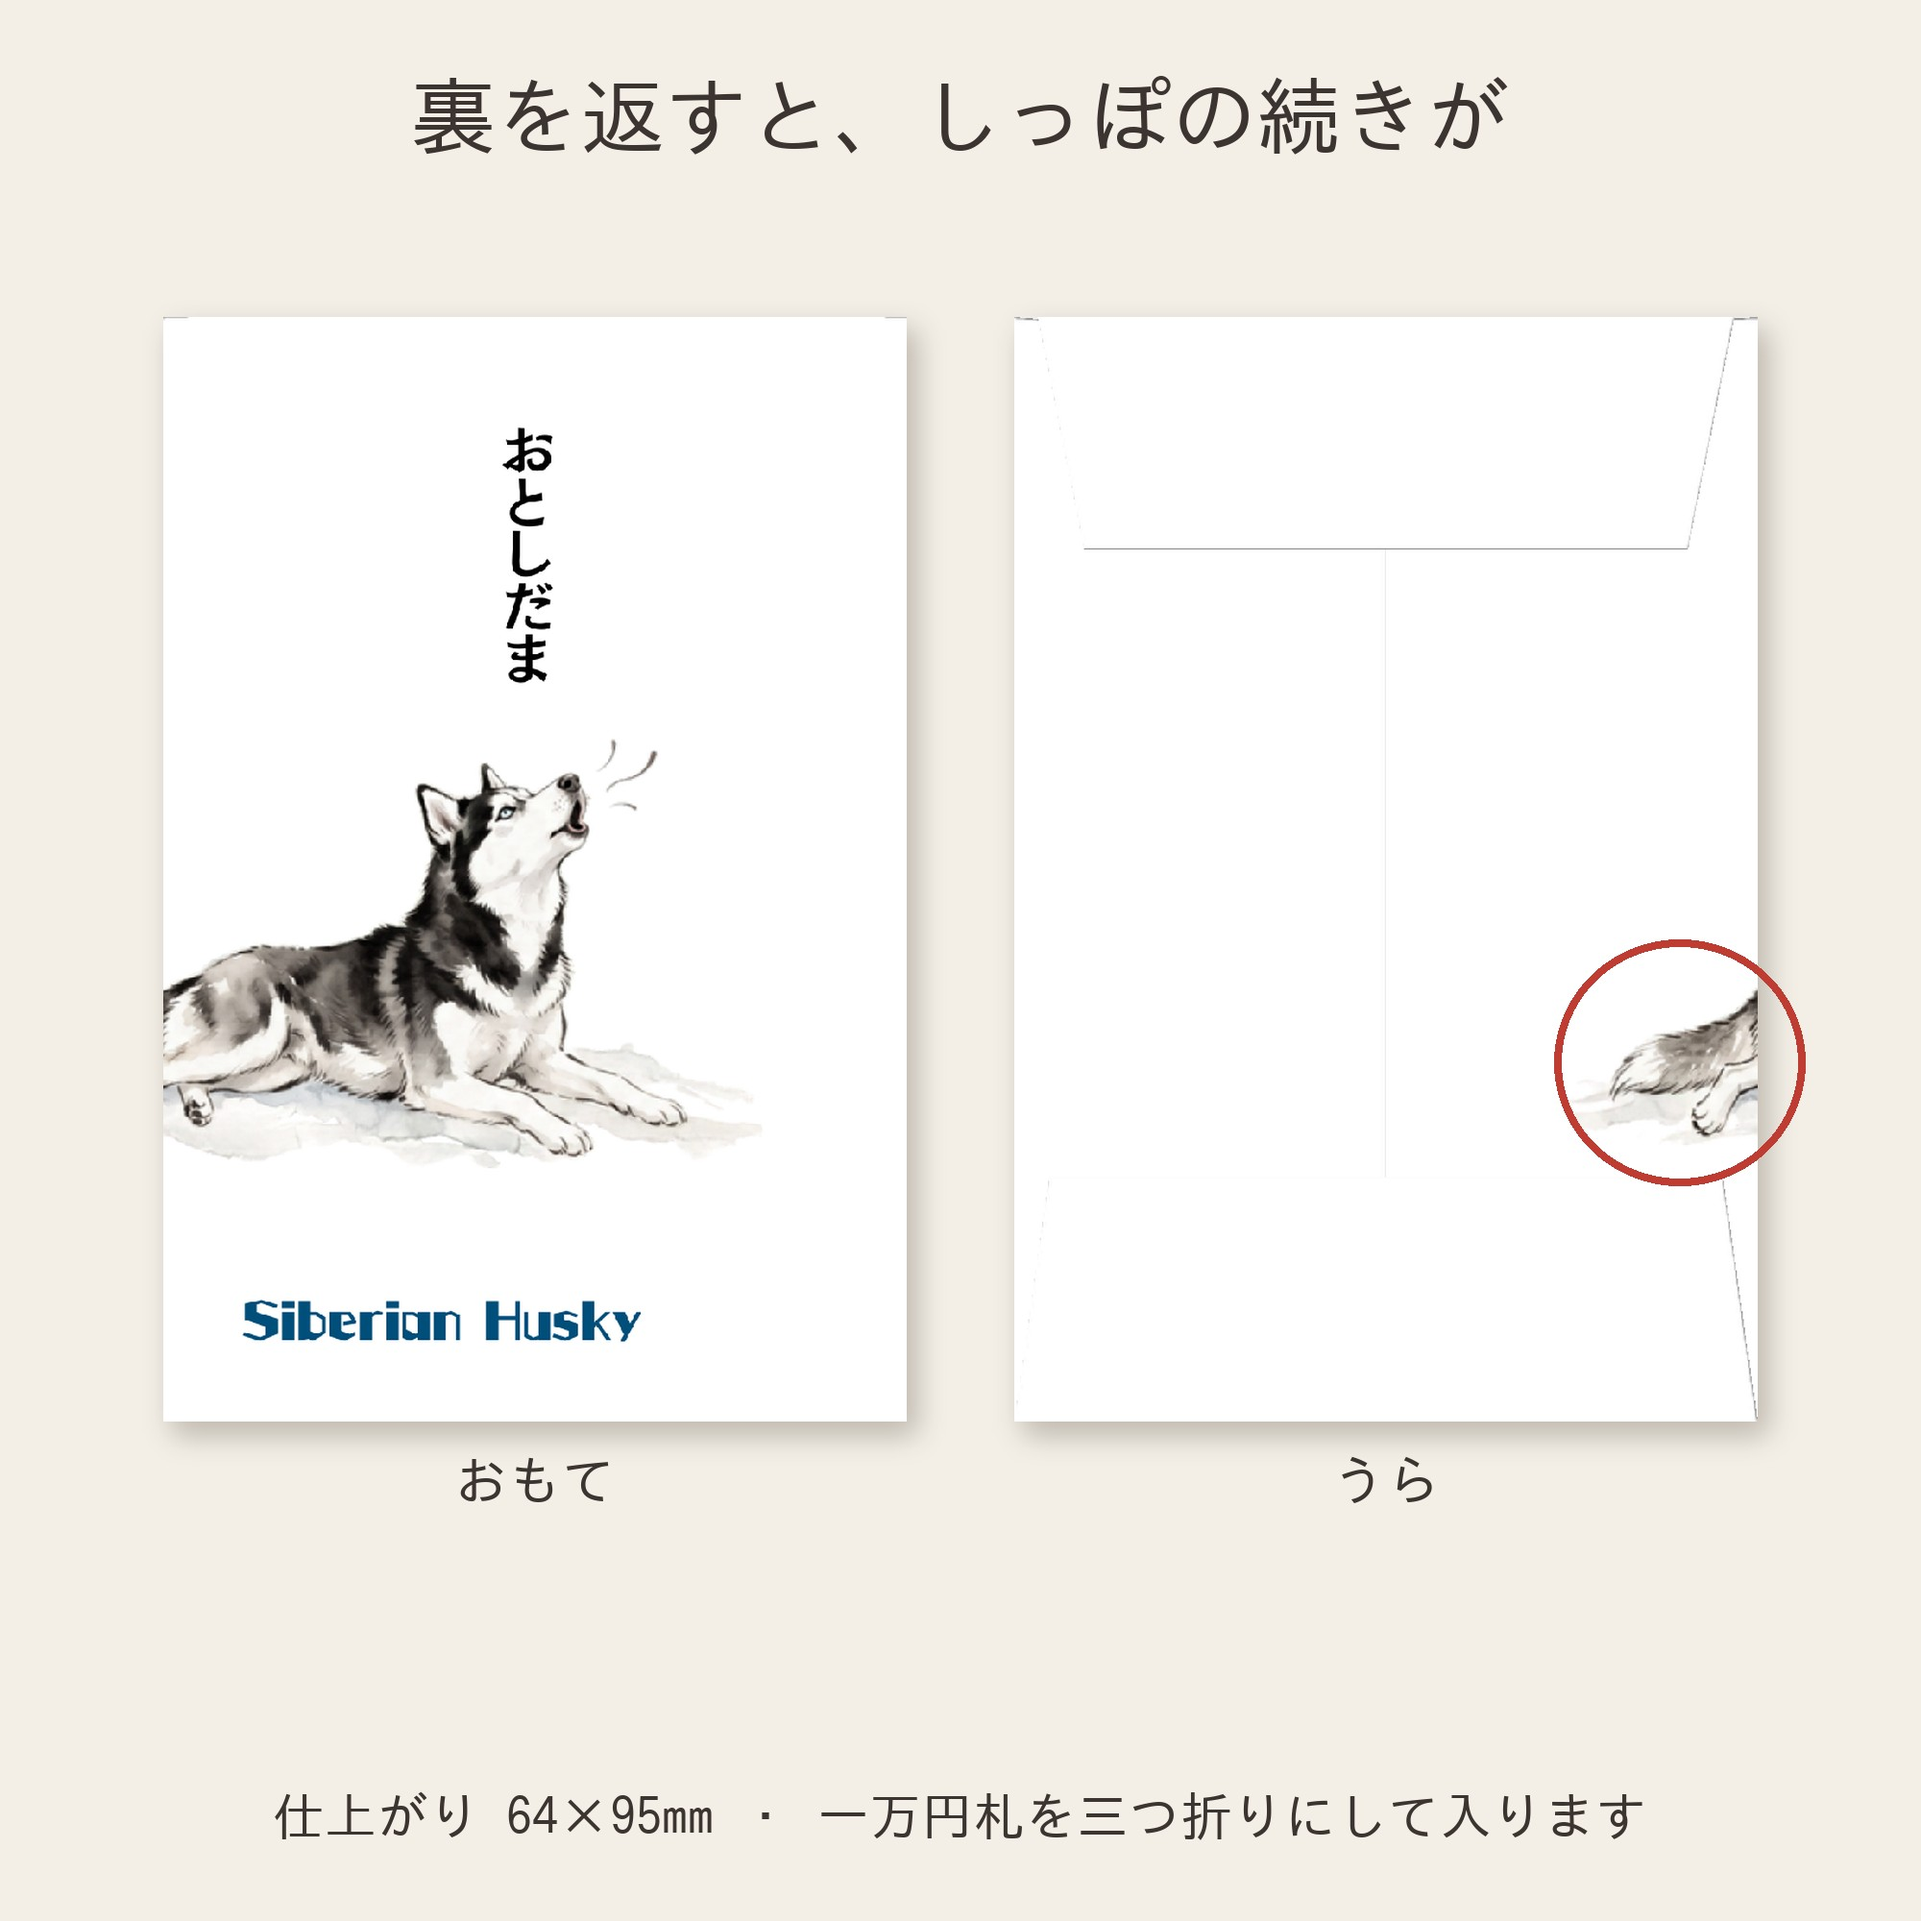
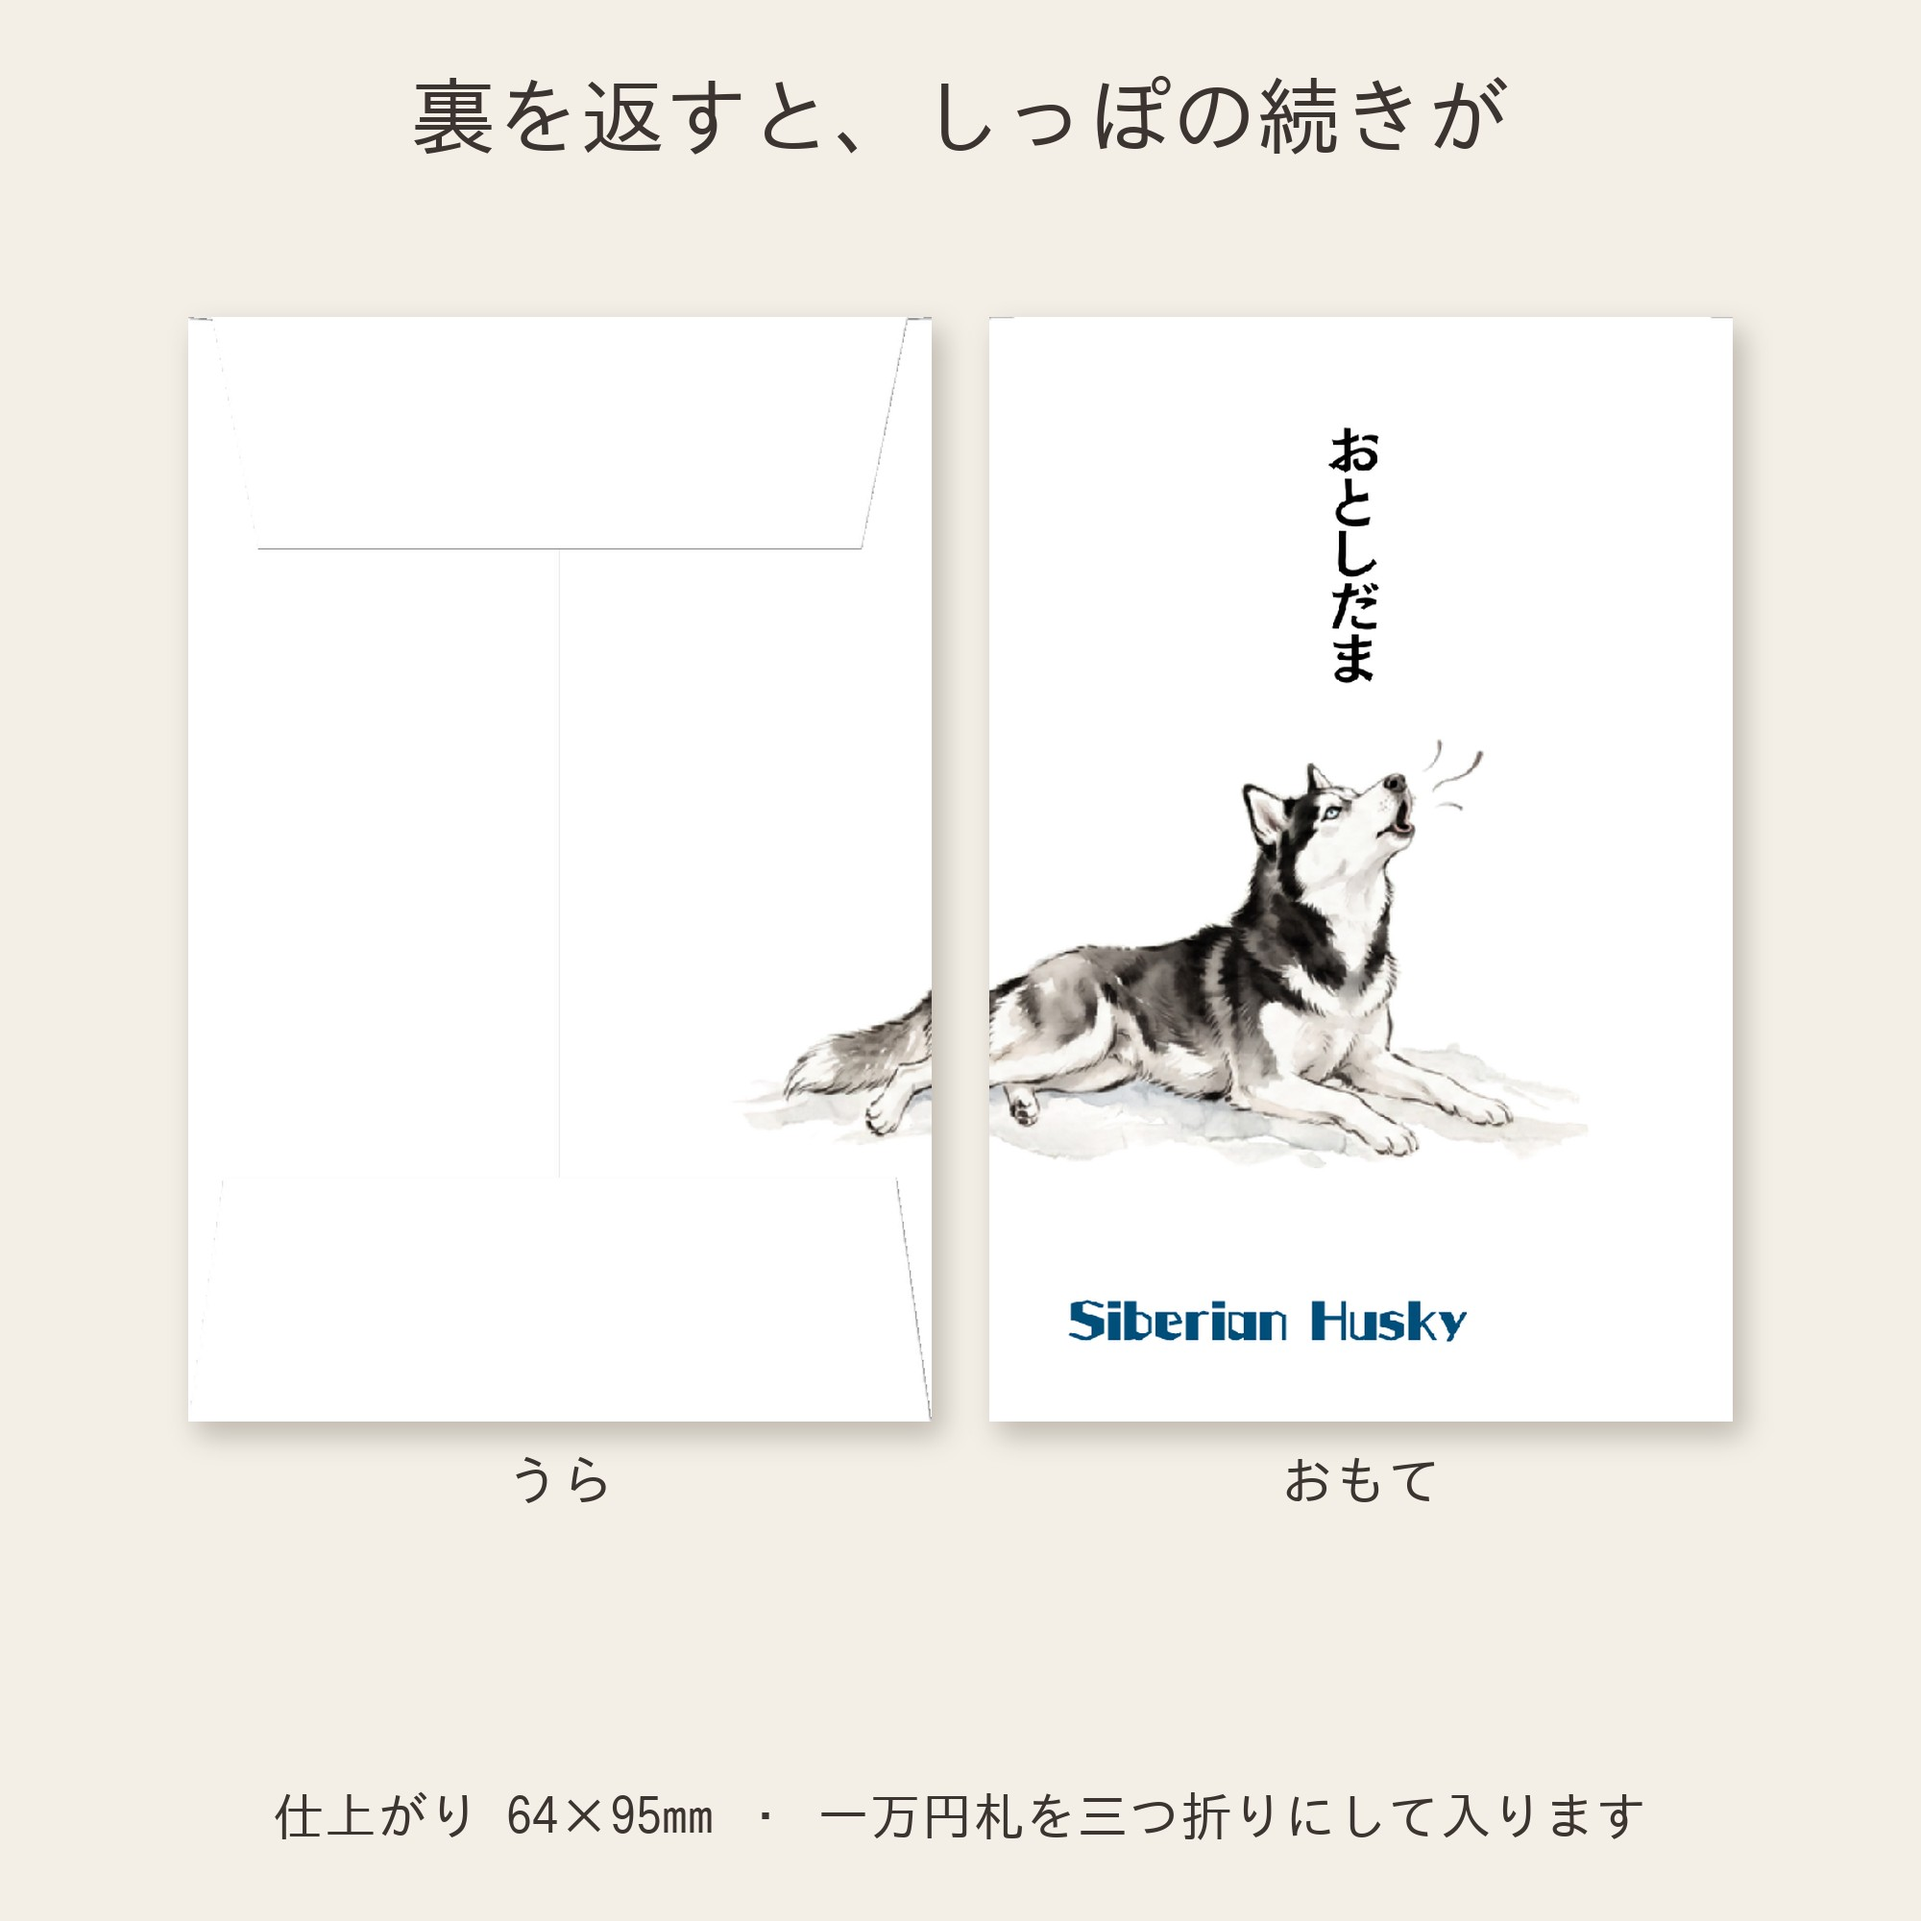
おもてとうらの画像を、うらを左・おもてを右に並べかえた(しっぽがつながって見えるように)
Claude-Session: https://claude.ai/code/session_017Q7oY74jx7snH393ipSzN7

diff --git a/shop/make_back_listing.py b/shop/make_back_listing.py
@@ -1,11 +1,9 @@
-"""はみ出す絵(大型犬など)の商品画像: 組み立てた「おもて」と「うら」を並べ、うらに回った絵を赤い丸で囲む。2000x2000。
+"""はみ出す絵(大型犬など)の商品画像: 組み立てた「うら」(左)と「おもて」(右)を並べる。2000x2000。
 check_wraparound.py が作った check/front_<名前>.png と check/back_<名前>.png を使う。
 使い方: python3 make_back_listing.py husky しっぽ   → listing_husky_5.jpg"""
 import sys
 from pathlib import Path
-import numpy as np
 from PIL import Image, ImageDraw
-from scipy import ndimage
 
 import make_listing_extra as ex
 
@@ -17,24 +15,20 @@ d = ImageDraw.Draw(c)
 d.text((S / 2, 120), f"裏を返すと、{part}の続きが", font=ex.f(88), fill=ex.INK, anchor="mm")
 fr = Image.open(ROOT / "check" / f"front_{name}.png").convert("RGB")
 bk = Image.open(ROOT / "check" / f"back_{name}.png").convert("RGB")
-# うらに回った絵の場所(濃い色のかたまりのうち、いちばん大きいもの)
-a = np.asarray(bk).astype(int)
-lab, n = ndimage.label(ndimage.binary_dilation(a.min(2) < 190, iterations=6))
-k = int(np.argmax(ndimage.sum(np.ones(lab.shape), lab, range(1, n + 1)))) + 1
-ys, xs = np.nonzero(lab == k)
 h = 1150
 sc = h / fr.height
 fr = fr.resize((int(fr.width * sc), h), Image.LANCZOS)
 bk = bk.resize((int(bk.width * sc), h), Image.LANCZOS)
-x1, y = 170, 330
-x2 = S - 170 - bk.width
-ex.shadow_paste(c, fr, x1, y)
+# うらを左、おもてを右に置く(グレート・デーンの場面写真と同じ並び)。うらの右はしに回った絵が、
+# すぐとなりのおもての左はしにつながって見える
+gap = 60
+x2 = (S - bk.width - gap - fr.width) // 2
+x1 = x2 + bk.width + gap
+y = 330
 ex.shadow_paste(c, bk, x2, y)
-d.text((x1 + fr.width / 2, y + h + 60), "おもて", font=ex.f(56), fill=ex.INK, anchor="mm")
+ex.shadow_paste(c, fr, x1, y)
 d.text((x2 + bk.width / 2, y + h + 60), "うら", font=ex.f(56), fill=ex.INK, anchor="mm")
-cx, cy = x2 + (xs.min() + xs.max()) / 2 * sc, y + (ys.min() + ys.max()) / 2 * sc
-rx, ry = max(110, (xs.max() - xs.min()) / 2 * sc + 50), max(80, (ys.max() - ys.min()) / 2 * sc + 45)
-d.ellipse((cx - rx, cy - ry, cx + rx, cy + ry), outline=ex.RED, width=8)
+d.text((x1 + fr.width / 2, y + h + 60), "おもて", font=ex.f(56), fill=ex.INK, anchor="mm")
 d.text((S / 2, S - 110), "仕上がり 64×95mm ・ 一万円札を三つ折りにして入ります", font=ex.f(54), fill=ex.INK, anchor="mm")
 c.convert("RGB").save(ROOT / f"listing_{name}_5.jpg", quality=90)
 print("done", f"listing_{name}_5.jpg")

diff --git a/docs/minne-pochi-listing-husky.md b/docs/minne-pochi-listing-husky.md
@@ -105,6 +105,6 @@ uchinoko-aruaru_husky_pochi.zip
    - Geminiの袋が本物より細長かった(幅:高さ=0.63)。絵は幅に合わせて袋の下にそろえ、上の余りは紙の白にした。袋は画面の幅の約12%で、プロンプトの25%より小さい
 3. shop/listing_husky_3.jpg(6種類)
 4. shop/listing_shiba_4.jpg(作り方)
-5. shop/listing_husky_5.jpg(組み立てた「おもて」と「うら」を並べ、うらに回ったしっぽを赤い丸で囲んだ。`python3 shop/make_back_listing.py husky しっぽ` で作った。check/front_husky.png・back_husky.png は check_wraparound.py の計算で作った図で、写真ではない)
+5. shop/listing_husky_5.jpg(組み立てた「うら」(左)と「おもて」(右)を並べ、しっぽがつながって見えるようにした(ユーザーの希望。グレート・デーンの場面写真と同じ並び)。`python3 shop/make_back_listing.py husky しっぽ` で作った。check/front_husky.png・back_husky.png は check_wraparound.py の計算で作った図で、写真ではない)
 - 1と3は `python3 shop/make_from_pdf.py <PDF> husky --overwrite` で、作り直したPDFから作り直した。袋の表は6ページとも64×95mm。PDFの中の名前は6ページとも「Siberian Husky」
 - make_from_pdf.py は、絵がページの真ん中の高さにかかると袋の線を見つけられなかったので、縦にずっと続く線だけを使うように直した(チワワ・キジトラのPDFでも同じ結果になることを確かめた)
